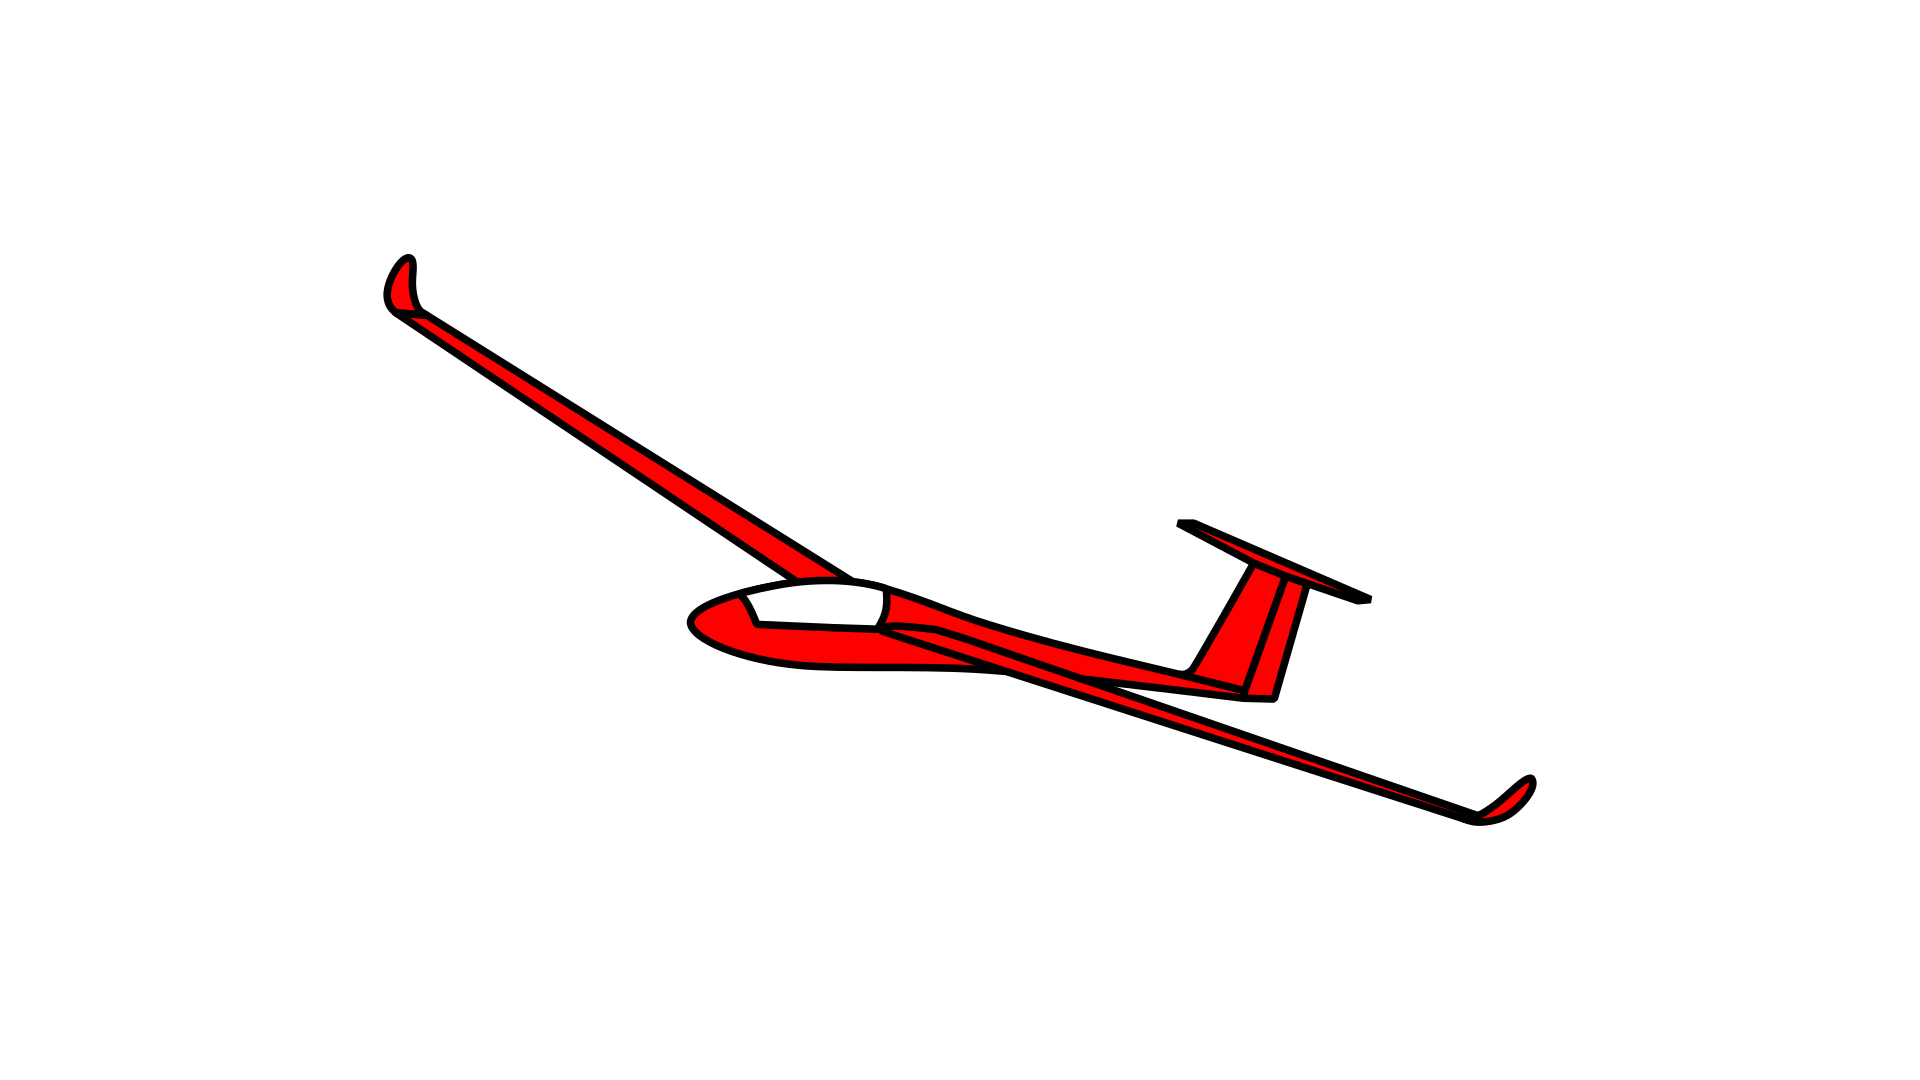
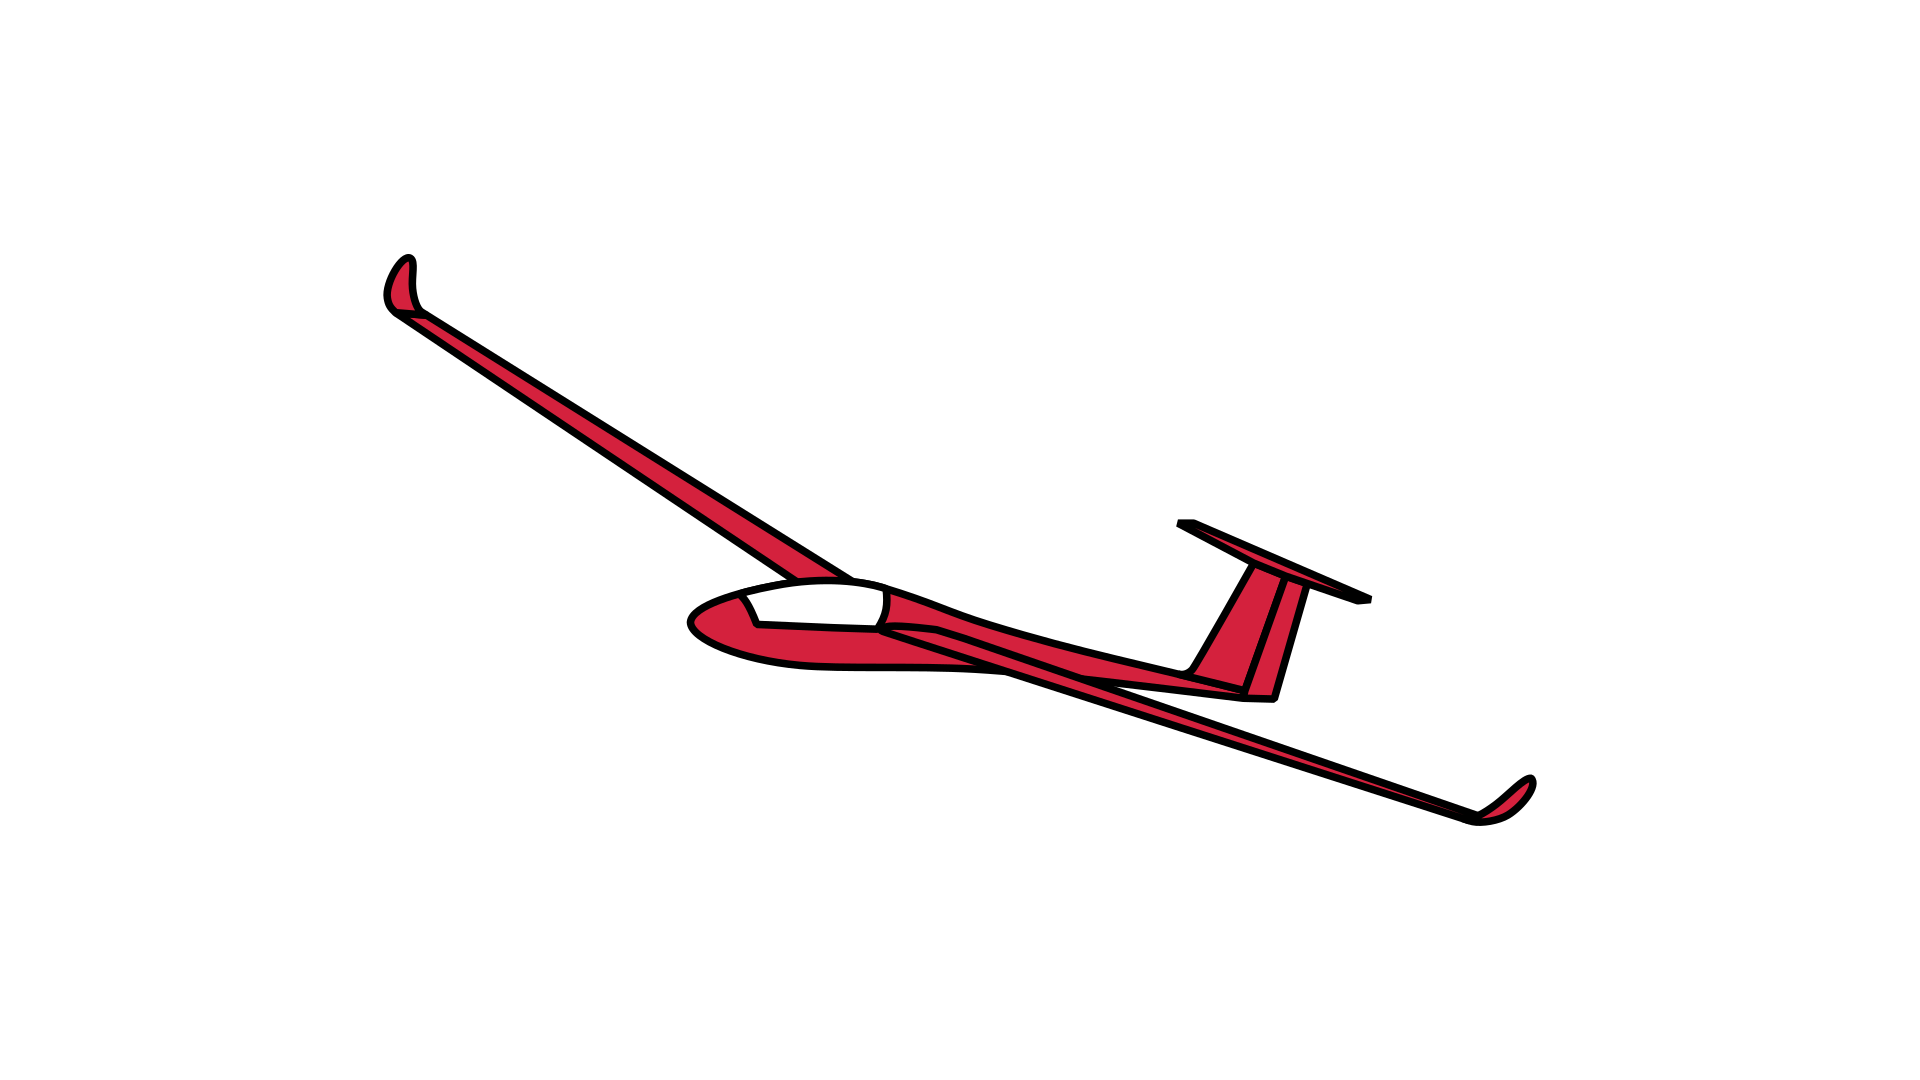
Material3 migration

diff --git a/lib/src/subjects/subject_screen.dart b/lib/src/subjects/subject_screen.dart
@@ -9,36 +9,33 @@ class SubjectScreen extends StatelessWidget {
 
   @override
   Widget build(BuildContext context) {
-    final isPortrait = MediaQuery.of(context).orientation.name == 'portrait';
+    final isPortrait =
+        MediaQuery.of(context).orientation == Orientation.portrait;
+    final imageBlock = Container(
+      color: Theme.of(context).colorScheme.surface,
+      child: Hero(
+        tag: subject.id,
+        child: Image.asset(
+          'assets/covers/${subject.img}',
+          height: isPortrait ? 150 : null,
+          width: MediaQuery.of(context).size.width * (isPortrait ? 1 : 0.25),
+        ),
+      ),
+    );
     return Scaffold(
-        backgroundColor: Theme.of(context).colorScheme.surface,
         appBar: AppBar(
           title: Text(subject.title),
           centerTitle: true,
         ),
         body: isPortrait
             ? ListView(children: [
-                Hero(
-                  tag: subject.id,
-                  child: Image.asset(
-                    'assets/covers/${subject.img}',
-                    height: 150,
-                    width: MediaQuery.of(context).size.width,
-                  ),
-                ),
+                imageBlock,
                 QuizList(subject: subject),
               ])
             : Row(
                 crossAxisAlignment: CrossAxisAlignment.stretch,
                 children: [
-                  Hero(
-                    tag: subject.id,
-                    child: Image.asset(
-                      'assets/covers/${subject.img}',
-                      height: MediaQuery.of(context).size.height,
-                      width: MediaQuery.of(context).size.width * 0.3,
-                    ),
-                  ),
+                  imageBlock,
                   Expanded(child: QuizList(subject: subject)),
                 ],
               ));

diff --git a/lib/src/quiz/widgets/answer_card.dart b/lib/src/quiz/widgets/answer_card.dart
@@ -20,9 +20,6 @@ class AnswerCard extends StatelessWidget {
       shape: const RoundedRectangleBorder(
         borderRadius: BorderRadius.vertical(top: Radius.circular(20.0)),
       ),
-      // barrierColor: correct
-      //     ? Colors.green.withOpacity(0.3)
-      //     : Theme.of(context).primaryColor.withOpacity(0.3),
       builder: (BuildContext context) {
         final local = AppLocalizations.of(context)!;
         return Container(
@@ -32,13 +29,6 @@ class AnswerCard extends StatelessWidget {
             mainAxisAlignment: MainAxisAlignment.spaceAround,
             crossAxisAlignment: CrossAxisAlignment.center,
             children: <Widget>[
-              // Icon(
-              //   correct
-              //       ? FontAwesomeIcons.faceSmile
-              //       : FontAwesomeIcons.faceFrown,
-              //   size: 50,
-              //   color: correct ? Colors.green : Colors.red,
-              // ),
               Text(
                 correct ? local.rightAnswer : local.wrongAnswer,
                 style: Theme.of(context).textTheme.titleLarge,
@@ -76,10 +66,10 @@ class AnswerCard extends StatelessWidget {
       constraints: const BoxConstraints(minHeight: 60),
       margin: const EdgeInsets.only(bottom: 10),
       decoration: BoxDecoration(
-          color: Theme.of(context).hoverColor,
+          color: Theme.of(context).colorScheme.surface,
           borderRadius: BorderRadius.circular(10),
-          border:
-              Border.all(color: Theme.of(context).highlightColor, width: 2)),
+          border: Border.all(
+              color: Theme.of(context).colorScheme.outlineVariant, width: 1)),
       child: InkWell(
         onTap: () {
           state.selected = option;

diff --git a/lib/src/theme.dart b/lib/src/theme.dart
@@ -19,31 +19,25 @@ const primary = Color.fromRGBO(220, 20, 60, 1);
 MaterialColor colorCustom = MaterialColor(primary.value, color);
 
 var appTheme = ThemeData(
-  primarySwatch: colorCustom,
+  useMaterial3: true,
+  colorSchemeSeed: primary,
   fontFamily: GoogleFonts.openSans().fontFamily,
-  bottomAppBarTheme: const BottomAppBarTheme(
-    color: Colors.black87,
+  appBarTheme: const AppBarTheme(
+    color: primary,
+    elevation: 5,
+    centerTitle: true,
+    iconTheme: IconThemeData(color: Colors.white),
+    titleTextStyle: TextStyle(color: Colors.white, fontSize: 20),
   ),
-  bottomNavigationBarTheme: const BottomNavigationBarThemeData(
-    elevation: 2.0,
-    backgroundColor: Colors.black87,
-    selectedItemColor: Colors.white,
-    unselectedItemColor: Colors.white70,
+  dialogTheme: const DialogTheme(
+    // backgroundColor: Colors.white,
+    surfaceTintColor: Colors.white,
   ),
-  brightness: Brightness.light,
-  textTheme: const TextTheme(
-    bodyLarge: TextStyle(fontSize: 18),
-    bodyMedium: TextStyle(fontSize: 16),
-    labelLarge: TextStyle(
-      letterSpacing: 1.5,
-      fontWeight: FontWeight.bold,
-    ),
-    displayLarge: TextStyle(
-      fontWeight: FontWeight.bold,
-    ),
-    titleMedium: TextStyle(
-      color: Colors.grey,
-    ),
+  cardTheme: const CardTheme(
+    // shape: RoundedRectangleBorder(
+    //   borderRadius: BorderRadius.all(Radius.circular(10)),
+    // ),
+    surfaceTintColor: Colors.white,
+    elevation: 5,
   ),
-  buttonTheme: const ButtonThemeData(),
 );

diff --git a/lib/src/quiz/widgets/fail_page.dart b/lib/src/quiz/widgets/fail_page.dart
@@ -16,7 +16,8 @@ class FailPage extends StatelessWidget {
     final local = AppLocalizations.of(context)!;
     final rightAnswers = quizState.answers.where((e) => e).length;
     final percent = rightAnswers / quiz.questions.length;
-    final isPortrait = MediaQuery.of(context).orientation.name == 'portrait';
+    final isPortrait =
+        MediaQuery.of(context).orientation == Orientation.portrait;
     final children = [
       ResultScaleBar(
         percent: percent,
@@ -31,12 +32,8 @@ class FailPage extends StatelessWidget {
             style: Theme.of(context).textTheme.titleLarge,
           ),
           const Divider(),
-          ElevatedButton.icon(
-            style: TextButton.styleFrom(
-              backgroundColor: Theme.of(context).primaryColor,
-            ),
-            icon: const Icon(FontAwesomeIcons.faceFrown),
-            label: Text(local.returnToSubjectTitle),
+          ElevatedButton(
+            child: Text(local.returnToSubjectTitle),
             onPressed: () {
               quizState.reset();
               Navigator.pop(context);

diff --git a/lib/src/quiz/widgets/congrats_page.dart b/lib/src/quiz/widgets/congrats_page.dart
@@ -16,7 +16,8 @@ class CongratsPage extends StatelessWidget {
     final local = AppLocalizations.of(context)!;
     final rightAnswers = quizState.answers.where((e) => e).length;
     final percent = rightAnswers / quiz.questions.length;
-    final isPortrait = MediaQuery.of(context).orientation.name == 'portrait';
+    final isPortrait =
+        MediaQuery.of(context).orientation == Orientation.portrait;
     final children = [
       ResultScaleBar(
         percent: percent,
@@ -31,12 +32,8 @@ class CongratsPage extends StatelessWidget {
             style: Theme.of(context).textTheme.titleLarge,
           ),
           const Divider(),
-          ElevatedButton.icon(
-            style: TextButton.styleFrom(
-              backgroundColor: Colors.green,
-            ),
-            icon: const Icon(FontAwesomeIcons.faceSmile),
-            label: Text(local.returnToSubjectTitle),
+          ElevatedButton(
+            child: Text(local.returnToSubjectTitle),
             onPressed: () {
               quizState.reset();
               Navigator.pop(context);

diff --git a/lib/src/exams/exam_item.dart b/lib/src/exams/exam_item.dart
@@ -10,9 +10,6 @@ class ExamItem extends StatelessWidget {
   @override
   Widget build(BuildContext context) {
     return Card(
-      clipBehavior: Clip.antiAlias,
-      elevation: 5.0,
-      shadowColor: Theme.of(context).primaryColorLight,
       shape: RoundedRectangleBorder(
         borderRadius: BorderRadius.circular(10),
       ),
@@ -26,14 +23,16 @@ class ExamItem extends StatelessWidget {
         },
         child: Row(
           crossAxisAlignment: CrossAxisAlignment.stretch,
-          // mainAxisAlignment: MainAxisAlignment.spaceBetween,
           children: [
             Flexible(
               // flex: 2,
               child: SizedBox(
-                child: Image.asset(
-                  'assets/covers/${exam.img}',
-                  fit: BoxFit.fitHeight,
+                child: Hero(
+                  tag: exam.img,
+                  child: Image.asset(
+                    'assets/covers/${exam.img}',
+                    fit: BoxFit.fitHeight,
+                  ),
                 ),
               ),
             ),

diff --git a/lib/src/subjects/subject_list_screen.dart b/lib/src/subjects/subject_list_screen.dart
@@ -48,12 +48,33 @@ class SubjectListScreen extends StatelessWidget {
           child: Text('No exam selected'),
         );
     }
+    final isPortrait =
+        MediaQuery.of(context).orientation == Orientation.portrait;
+    final children = [
+      SizedBox(
+        height: isPortrait ? 150 : double.infinity,
+        width: isPortrait ? double.infinity : 150,
+        child: Hero(
+          tag: exam.img,
+          child: Image.asset(
+            'assets/covers/${exam.img}',
+            fit: BoxFit.scaleDown,
+          ),
+        ),
+      ),
+      Expanded(child: body),
+    ];
     return Scaffold(
       appBar: AppBar(
         title: Text(local.subjectsTitle),
-        centerTitle: true,
       ),
-      body: body,
+      body: isPortrait
+          ? Column(
+              children: children,
+            )
+          : Row(
+              children: children,
+            ),
       // bottomNavigationBar: const BottomNavBar(),
     );
   }

diff --git a/lib/src/quiz/quiz.dart b/lib/src/quiz/quiz.dart
@@ -49,13 +49,14 @@ class QuizScreen extends ConsumerWidget {
               animation: true,
               animationDuration: 750,
               animateFromLastPercent: true,
-              backgroundColor: Colors.red.shade300,
-              progressColor: Theme.of(context).colorScheme.surface,
+              backgroundColor: Theme.of(context).colorScheme.primary,
+              progressColor: Theme.of(context).colorScheme.background,
               leading: SizedBox(
                 width: 45,
                 child: Text('$currentQuestion/$questionQty',
-                    style: Theme.of(context).textTheme.bodyMedium!.copyWith(
-                        color: Theme.of(context).colorScheme.onSecondary)),
+                    style: TextStyle(
+                        fontSize: 16.0,
+                        color: Theme.of(context).colorScheme.onPrimary)),
               ),
               trailing: SizedBox(
                 width: 65,

diff --git a/lib/src/contdown_timer/countdown_timer.dart b/lib/src/contdown_timer/countdown_timer.dart
@@ -45,12 +45,13 @@ class _CountDownTimerState extends State<CountDownTimer> {
       child: Row(
         mainAxisAlignment: MainAxisAlignment.center,
         children: [
-          Icon(Icons.alarm, size: 16, color: Theme.of(context).canvasColor),
+          Icon(Icons.alarm,
+              size: 16, color: Theme.of(context).colorScheme.onPrimary),
           const SizedBox(width: 3),
           Text(
             '${_durationInSeconds ~/ 60}:${(_durationInSeconds % 60).toString().padLeft(2, '0')}',
-            style:
-                TextStyle(fontSize: 16.0, color: Theme.of(context).canvasColor),
+            style: TextStyle(
+                fontSize: 16.0, color: Theme.of(context).colorScheme.onPrimary),
           ),
         ],
       ),

diff --git a/lib/src/quiz/widgets/result_scale_bar.dart b/lib/src/quiz/widgets/result_scale_bar.dart
@@ -18,7 +18,7 @@ class ResultScaleBar extends StatelessWidget {
       lineWidth: 15.0,
       percent: percent,
       progressColor: Colors.green,
-      arcBackgroundColor: Theme.of(context).primaryColor,
+      arcBackgroundColor: Theme.of(context).colorScheme.primary,
       arcType: ArcType.HALF,
       circularStrokeCap: CircularStrokeCap.butt,
       animation: true,
@@ -29,7 +29,7 @@ class ResultScaleBar extends StatelessWidget {
         style: Theme.of(context).textTheme.headlineSmall,
       ),
       center: Text('${(percent * 100).round()}%',
-          style: Theme.of(context).textTheme.headlineMedium),
+          style: Theme.of(context).textTheme.headlineSmall),
     );
   }
 }

diff --git a/lib/src/quiz/widgets/quiz_card.dart b/lib/src/quiz/widgets/quiz_card.dart
@@ -10,8 +10,7 @@ class QuizCard extends StatelessWidget {
   @override
   Widget build(BuildContext context) {
     return Card(
-      shape: const RoundedRectangleBorder(borderRadius: BorderRadius.zero),
-      elevation: 4,
+      // shape: const RoundedRectangleBorder(borderRadius: BorderRadius.zero),
       margin: const EdgeInsets.all(4),
       child: InkWell(
         onTap: () {
@@ -26,6 +25,7 @@ class QuizCard extends StatelessWidget {
           );
         },
         child: Container(
+          color: Theme.of(context).colorScheme.surface,
           padding: const EdgeInsets.all(8),
           child: ListTile(
             title: Text(

diff --git a/lib/src/home/home.dart b/lib/src/home/home.dart
@@ -43,11 +43,11 @@ class HomeScreen extends StatelessWidget {
         img: 'plfb.png',
       )
     ];
-    final isPortrait = MediaQuery.of(context).orientation.name == 'portrait';
+    final isPortrait =
+        MediaQuery.of(context).orientation == Orientation.portrait;
     return Scaffold(
       appBar: AppBar(
         title: Text(local.examsTitle),
-        centerTitle: true,
       ),
       body: isPortrait
           ? ListView.builder(
